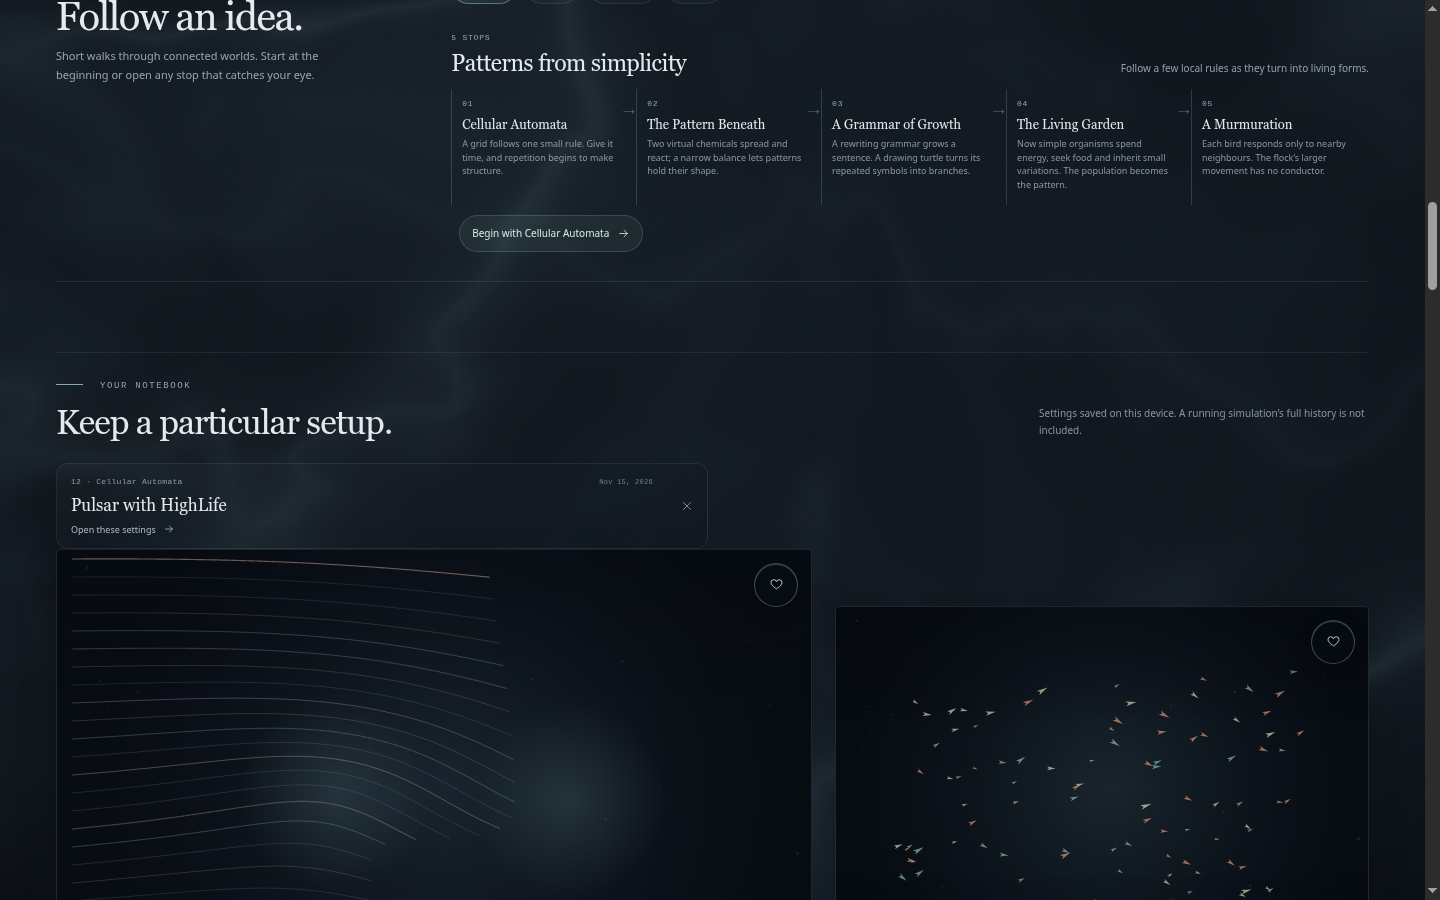
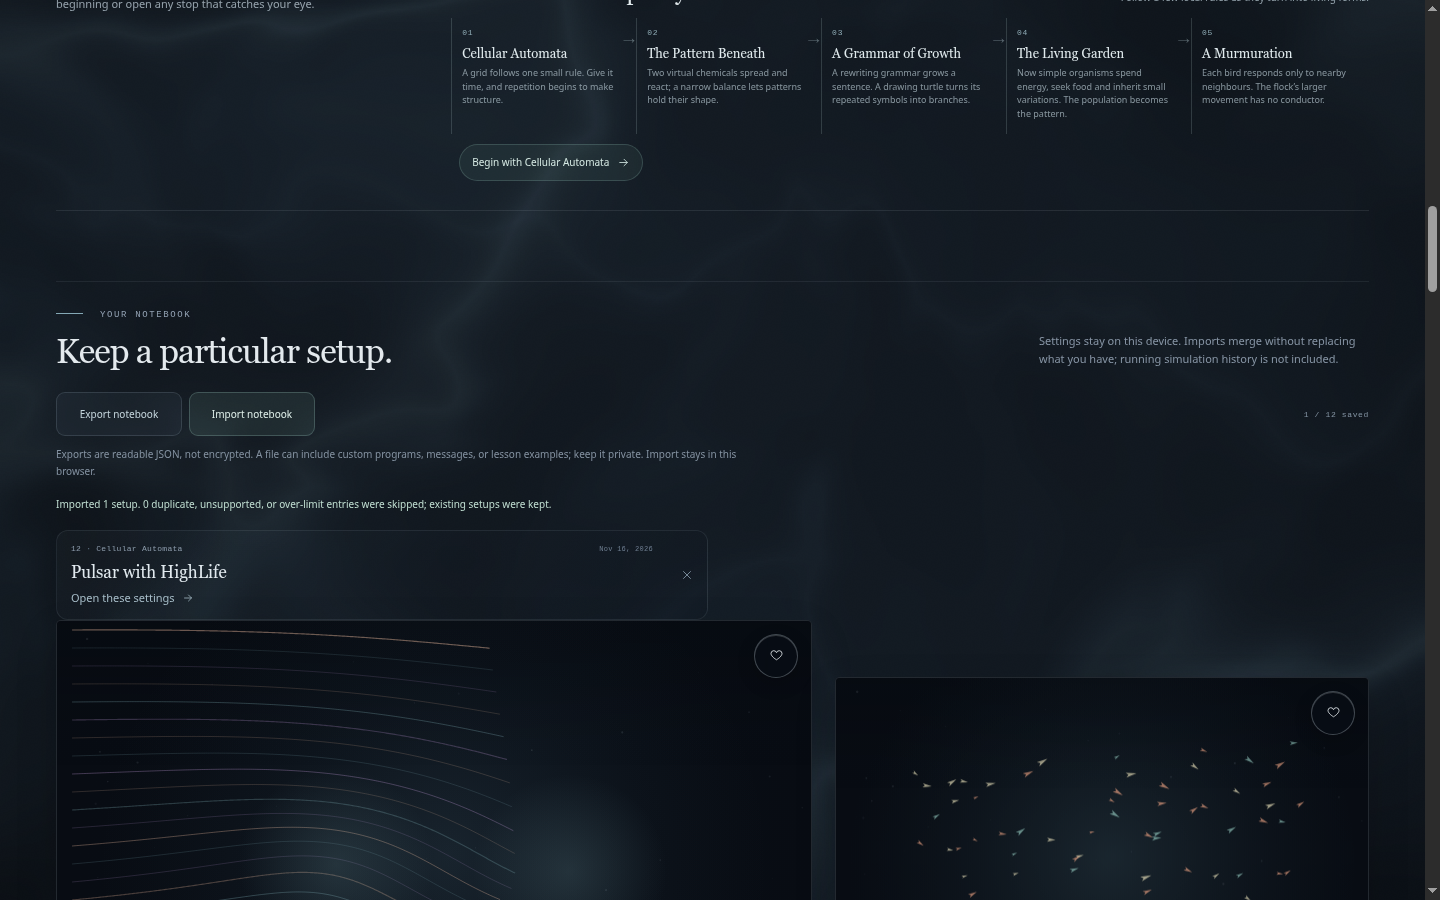
Add portable local experiment notebooks

diff --git a/src/App.tsx b/src/App.tsx
@@ -1,4 +1,4 @@
-import { Suspense, useCallback, useEffect, useMemo, useRef, useState } from 'react'
+import { Suspense, useCallback, useEffect, useMemo, useRef, useState, type ChangeEvent } from 'react'
 import { Link, Route, Routes, useLocation, useNavigate, useParams } from 'react-router-dom'
 import AmbientField from './components/AmbientField'
 import ArtworkPreview from './components/ArtworkPreview'
@@ -8,7 +8,7 @@ import { experiments } from './registry'
 import journeyData from './data/journeys.json'
 import discoveryConcepts from './data/discovery-concepts.json'
 import siteCopy from './data/site-copy.json'
-import { decodeState, encodeState, getFavorites, getRecent, getSavedExperiments, rememberVisit, removeSavedExperiment, saveExperimentState, toggleFavorite } from './lib/storage'
+import { decodeState, encodeState, exportSavedExperimentNotebook, getFavorites, getRecent, getSavedExperiments, importSavedExperimentNotebook, MAX_NOTEBOOK_FILE_BYTES, rememberVisit, removeSavedExperiment, saveExperimentState, toggleFavorite } from './lib/storage'
 import { SITE_ORIGIN, updatePageMetadata } from './lib/metadata'
 import type { ExperimentDefinition } from './types'
 
@@ -125,11 +125,13 @@ function Exhibition() {
   const [query, setQuery] = useState('')
   const [favorites, setFavorites] = useState<string[]>(() => getFavorites(experimentIds))
   const [savedExperiments, setSavedExperiments] = useState(() => getSavedExperiments(experimentIds))
+  const [notebookMessage, setNotebookMessage] = useState('')
   const [searchOpen, setSearchOpen] = useState(false)
   const [selectedJourneyId, setSelectedJourneyId] = useState(journeys[0]?.id ?? '')
   const navigate = useNavigate()
   const searchRef = useRef<HTMLInputElement>(null)
   const searchButtonRef = useRef<HTMLButtonElement>(null)
+  const notebookFileRef = useRef<HTMLInputElement>(null)
   const recent = getRecent()
   const filters = useMemo(() => ['All works', ...new Set(experiments.map((item) => item.category)), 'Favourites'], [])
   const shown = useMemo(() => {
@@ -183,7 +185,58 @@ function Exhibition() {
     if (choice) navigate('/exhibits/' + choice.id)
   }
   const favorite = (id: string) => setFavorites(toggleFavorite(id, experimentIds))
-  const removeSaved = (id: string) => setSavedExperiments(removeSavedExperiment(id, experimentIds).experiments)
+  const removeSaved = (id: string) => {
+    setSavedExperiments(removeSavedExperiment(id, experimentIds).experiments)
+    setNotebookMessage('Saved setup removed from this browser. Any exported notebook file remains unchanged.')
+  }
+  const exportNotebook = () => {
+    const contents = exportSavedExperimentNotebook(experimentIds)
+    if (!contents) { setNotebookMessage('There are no saved setups to export.'); return }
+    try {
+      const url = URL.createObjectURL(new Blob([contents], { type: 'application/json' }))
+      const link = document.createElement('a')
+      link.href = url
+      link.download = `armsteel-notebook-${new Date().toISOString().slice(0, 10)}.json`
+      link.click()
+      window.setTimeout(() => URL.revokeObjectURL(url), 1000)
+      setNotebookMessage(`Exported ${savedExperiments.length} settings-only ${savedExperiments.length === 1 ? 'setup' : 'setups'}. This JSON file is readable and was not uploaded.`)
+    } catch {
+      setNotebookMessage('The notebook could not be exported. Your saved setups remain here.')
+    }
+  }
+  const importNotebook = async (event: ChangeEvent<HTMLInputElement>) => {
+    const input = event.currentTarget
+    const file = input.files?.[0]
+    if (!file) return
+    try {
+      if (file.size > MAX_NOTEBOOK_FILE_BYTES) {
+        setNotebookMessage(`That file exceeds the ${Math.round(MAX_NOTEBOOK_FILE_BYTES / 1024)} KiB import limit. Your notebook was not changed.`)
+        return
+      }
+      const content = await file.text()
+      if (new TextEncoder().encode(content).byteLength > MAX_NOTEBOOK_FILE_BYTES) {
+        setNotebookMessage(`That file exceeds the ${Math.round(MAX_NOTEBOOK_FILE_BYTES / 1024)} KiB import limit. Your notebook was not changed.`)
+        return
+      }
+      const archive: unknown = JSON.parse(content)
+      const result = importSavedExperimentNotebook(archive, experimentIds)
+      setSavedExperiments(result.experiments)
+      if (result.status === 'invalid') setNotebookMessage('This is not a supported Armsteel notebook file. Nothing was imported and your saved setups were left unchanged.')
+      else if (result.status === 'no-new') {
+        setNotebookMessage(result.skippedCount
+          ? `No new setups imported. ${result.skippedCount} duplicate, unsupported, or over-limit ${result.skippedCount === 1 ? 'entry was' : 'entries were'} skipped; your notebook is unchanged.`
+          : 'This notebook file contains no saved setups. Your notebook is unchanged.')
+      } else if (result.status === 'memory-only') {
+        setNotebookMessage(`Imported ${result.importedCount} ${result.importedCount === 1 ? 'setup' : 'setups'} for this tab only because browser storage is unavailable. ${result.skippedCount} ${result.skippedCount === 1 ? 'entry was' : 'entries were'} skipped.`)
+      } else {
+        setNotebookMessage(`Imported ${result.importedCount} ${result.importedCount === 1 ? 'setup' : 'setups'}. ${result.skippedCount} duplicate, unsupported, or over-limit ${result.skippedCount === 1 ? 'entry was' : 'entries were'} skipped; existing setups were kept.`)
+      }
+    } catch {
+      setNotebookMessage('The file could not be read as a notebook. Nothing was imported and your saved setups were left unchanged.')
+    } finally {
+      input.value = ''
+    }
+  }
 
   return <main className="exhibition-page">
     <a className="skip-link" href="#collection">Skip to collection</a>
@@ -274,12 +327,22 @@ function Exhibition() {
         </div>
       </section>}
 
-      {savedExperiments.length > 0 && <section className="saved-experiments" aria-labelledby="saved-experiments-heading">
+      <section className={`saved-experiments${savedExperiments.length ? '' : ' saved-experiments-empty'}`} aria-labelledby="saved-experiments-heading">
         <div className="saved-experiments-heading">
-          <div><p className="eyebrow"><span className="eyebrow-rule" /> YOUR NOTEBOOK</p><h2 id="saved-experiments-heading">Keep a particular setup.</h2></div>
-          <p>Settings saved on this device. A running simulation’s full history is not included.</p>
+          <div><p className="eyebrow"><span className="eyebrow-rule" /> YOUR NOTEBOOK</p><h2 id="saved-experiments-heading">{savedExperiments.length ? 'Keep a particular setup.' : 'Take a setup with you.'}</h2></div>
+          <p>{savedExperiments.length ? 'Settings stay on this device. Imports merge without replacing what you have; running simulation history is not included.' : 'Save settings from any study, or bring saved setups back with an Armsteel notebook file.'}</p>
         </div>
-        <div className="saved-experiments-grid">
+        <div className="saved-notebook-toolbar">
+          <div className="saved-notebook-actions">
+            <button type="button" className="saved-notebook-export" onClick={exportNotebook} disabled={!savedExperiments.length} aria-label="Export saved setups as a notebook file">Export notebook</button>
+            <button type="button" className="saved-notebook-import" onClick={() => notebookFileRef.current?.click()} aria-label="Import setups from a notebook file">Import notebook</button>
+            <input id="saved-notebook-import" ref={notebookFileRef} className="visually-hidden" type="file" accept="application/json,.json" aria-hidden="true" tabIndex={-1} onChange={importNotebook} />
+          </div>
+          <span>{savedExperiments.length} / 12 saved</span>
+        </div>
+        <p className="saved-notebook-privacy">Exports are readable JSON, not encrypted. A file can include custom programs, messages, or lesson examples; keep it private. Import stays in this browser.</p>
+        {notebookMessage && <p className="saved-notebook-status" role="status" aria-live="polite" aria-atomic="true">{notebookMessage}</p>}
+        {savedExperiments.length > 0 ? <div className="saved-experiments-grid">
           {savedExperiments.map((saved) => {
             const item = experiments.find((candidate) => candidate.id === saved.exhibitId)
             if (!item) return null
@@ -292,8 +355,8 @@ function Exhibition() {
               <button type="button" onClick={() => removeSaved(saved.id)} aria-label={`Remove saved setup ${saved.name}`} title="Remove saved setup"><Icon name="close" /></button>
             </article>
           })}
-        </div>
-      </section>}
+        </div> : <p className="saved-notebook-empty-note">No setups saved yet. Start with any study’s <em>Save these settings</em> action.</p>}
+      </section>
 
       {gridItems.length ? <div className="gallery-grid" id="gallery-grid" aria-live="polite">
         {gridItems.map((item, index) => <article className="gallery-card" key={item.id} style={{ '--card-index': index } as React.CSSProperties}>

diff --git a/src/lib/storage.ts b/src/lib/storage.ts
@@ -2,9 +2,12 @@ const FAVORITES_KEY = 'armsteel:favorites'
 const SAVED_EXPERIMENTS_KEY = 'armsteel:saved-scenes'
 const SHARED_STATE_MARKER = '$armsteel'
 const SHARED_STATE_VERSION = 1
+const NOTEBOOK_MARKER = '$armsteelNotebook'
+const NOTEBOOK_VERSION = 1
 const MAX_SHARED_STATE_BYTES = 16 * 1024
 const MAX_SAVED_EXPERIMENTS = 12
 const MAX_SAVED_EXPERIMENTS_BYTES = 128 * 1024
+export const MAX_NOTEBOOK_FILE_BYTES = MAX_SAVED_EXPERIMENTS_BYTES * 2
 
 export type SavedExperiment = {
   id: string
@@ -212,6 +215,63 @@ function writeSavedExperiments(experiments: SavedExperiment[]): boolean {
 
 function newSavedExperimentId(): string {
   return `scene-${Date.now().toString(36)}-${Math.random().toString(36).slice(2, 10)}`
+}
+
+export function exportSavedExperimentNotebook(allowedIds?: readonly string[]): string | null {
+  const experiments = getSavedExperiments(allowedIds)
+  if (!experiments.length) return null
+  try {
+    return JSON.stringify({ [NOTEBOOK_MARKER]: NOTEBOOK_VERSION, exportedAt: new Date().toISOString(), experiments }, null, 2)
+  } catch {
+    return null
+  }
+}
+
+function sameSavedSetup(left: SavedExperiment, right: SavedExperiment): boolean {
+  return left.exhibitId === right.exhibitId && left.name === right.name && JSON.stringify(left.state) === JSON.stringify(right.state)
+}
+
+export function importSavedExperimentNotebook(value: unknown, allowedIds?: readonly string[]) {
+  const current = getSavedExperiments(allowedIds)
+  let serialized: string
+  try { serialized = JSON.stringify(value) } catch {
+    return { status: 'invalid' as const, importedCount: 0, skippedCount: 0, experiments: current }
+  }
+  if (!serialized || new TextEncoder().encode(serialized).byteLength > MAX_NOTEBOOK_FILE_BYTES || !value || typeof value !== 'object' || Array.isArray(value)) {
+    return { status: 'invalid' as const, importedCount: 0, skippedCount: 0, experiments: current }
+  }
+  const archive = value as { [NOTEBOOK_MARKER]?: unknown; exportedAt?: unknown; experiments?: unknown }
+  if (archive[NOTEBOOK_MARKER] !== NOTEBOOK_VERSION || typeof archive.exportedAt !== 'string' || !Number.isFinite(Date.parse(archive.exportedAt)) || !Array.isArray(archive.experiments) || archive.experiments.length > MAX_SAVED_EXPERIMENTS * 4) {
+    return { status: 'invalid' as const, importedCount: 0, skippedCount: 0, experiments: current }
+  }
+
+  const candidates = sanitizeSavedExperiments({ version: 1, experiments: archive.experiments }, allowedIds)
+  let skippedCount = archive.experiments.length - candidates.length
+  const additions: SavedExperiment[] = []
+  const ids = new Set(current.map((item) => item.id))
+  for (const candidate of candidates) {
+    const collision = [...current, ...additions].find((item) => item.id === candidate.id)
+    if (collision && sameSavedSetup(collision, candidate)) {
+      skippedCount++
+      continue
+    }
+    let imported = candidate
+    if (collision || ids.has(imported.id)) imported = { ...candidate, id: newSavedExperimentId() }
+    while (ids.has(imported.id)) imported = { ...candidate, id: newSavedExperimentId() }
+
+    const proposed = [...additions, imported, ...current]
+    if (proposed.length > MAX_SAVED_EXPERIMENTS || serializedSize({ version: 1, experiments: proposed }) > MAX_SAVED_EXPERIMENTS_BYTES) {
+      skippedCount++
+      continue
+    }
+    additions.push(imported)
+    ids.add(imported.id)
+  }
+
+  if (!additions.length) return { status: 'no-new' as const, importedCount: 0, skippedCount, experiments: current }
+  const next = [...additions, ...current]
+  const status = writeSavedExperiments(next) ? 'imported' as const : 'memory-only' as const
+  return { status, importedCount: additions.length, skippedCount, experiments: next }
 }
 
 export function saveExperimentState(exhibitId: string, nameValue: string, stateValue: unknown, allowedIds?: readonly string[]) {

diff --git a/src/styles.css b/src/styles.css
@@ -1978,6 +1978,19 @@ body.immersive-active { height: 100%; min-height: 0; }
   font-size: 10px;
   line-height: 1.65;
 }
+.saved-notebook-toolbar { display:flex; justify-content:space-between; align-items:center; gap:16px; margin:0 0 10px; }
+.saved-notebook-toolbar > span { color:#8494a3; font:8px var(--mono); letter-spacing:.08em; }
+.saved-notebook-actions { display:flex; flex-wrap:wrap; gap:7px; }
+.saved-notebook-actions button { min-width:126px; min-height:44px; padding:0 14px; color:#c5d6dd; border:1px solid rgba(194,218,229,.15); border-radius:9px; background:rgba(127,160,179,.07); font-size:10px; cursor:pointer; transition:background .18s,border-color .18s,color .18s; }
+.saved-notebook-actions button:hover:not(:disabled) { color:#f0f5f6; border-color:rgba(194,218,229,.34); background:rgba(127,160,179,.13); }
+.saved-notebook-actions button.saved-notebook-import { color:#dfefe9; border-color:rgba(165,213,198,.25); background:rgba(123,174,158,.12); }
+.saved-notebook-actions button:disabled { opacity:.42; cursor:not-allowed; }
+.saved-notebook-actions button:focus-visible { outline:2px solid #c5e2eb; outline-offset:3px; }
+.saved-notebook-privacy,.saved-notebook-status,.saved-notebook-empty-note { max-width:690px; margin:8px 0 17px; color:#8492a1; font-size:10px; line-height:1.65; }
+.saved-notebook-status { color:#c1dfd2; }
+.saved-notebook-empty-note { color:#abb8c3; }
+.saved-experiments-empty { padding-bottom:2px; }
+.saved-experiments-empty .saved-notebook-privacy { margin-bottom:0; }
 .saved-experiments-grid {
   display: grid;
   grid-template-columns: repeat(2, minmax(0, 1fr));
@@ -2001,7 +2014,7 @@ body.immersive-active { height: 100%; min-height: 0; }
 .saved-experiment-card strong { overflow: hidden; color: #e1e9ee; font: 500 17px/1.2 var(--serif); text-overflow: ellipsis; }
 .saved-experiment-card > a > small { display: flex; align-items: center; gap: 7px; color: #a8bec9; font-size: 9px; }
 .saved-experiment-card > a > small svg { width: 12px; height: 12px; }
-.saved-experiment-card > button { align-self: center; justify-self: center; width: 36px; height: 36px; display: grid; place-items: center; color: #8294a3; border: 1px solid transparent; border-radius: 50%; background: transparent; cursor: pointer; }
+.saved-experiment-card > button { align-self: center; justify-self: center; width: 44px; height: 44px; display: grid; place-items: center; color: #8294a3; border: 1px solid transparent; border-radius: 50%; background: transparent; cursor: pointer; }
 .saved-experiment-card > button:hover { color: #f2dedc; border-color: rgba(225, 185, 180, .23); background: rgba(119, 72, 75, .14); }
 .saved-experiment-card > button svg { width: 14px; height: 14px; }
 .saved-experiment-card a:focus-visible, .saved-experiment-card button:focus-visible { outline: 2px solid #c5e2eb; outline-offset: 2px; }
@@ -2019,6 +2032,10 @@ body.immersive-active { height: 100%; min-height: 0; }
   .saved-experiments-heading { display: block; margin-bottom: 14px; }
   .saved-experiments-heading h2 { margin-top: 8px; font-size: 27px; }
   .saved-experiments-heading > p { margin-top: 7px; font-size: 9px; }
+  .saved-notebook-toolbar { align-items:flex-start; flex-direction:column-reverse; gap:8px; }
+  .saved-notebook-actions { width:100%; }
+  .saved-notebook-actions button { min-width:0; flex:1; padding-inline:8px; }
+  .saved-notebook-privacy,.saved-notebook-status,.saved-notebook-empty-note { font-size:10px; }
   .saved-experiments-grid { grid-template-columns: minmax(0, 1fr); gap: 7px; }
   .saved-experiment-card > a { padding: 11px 12px; }
 }
